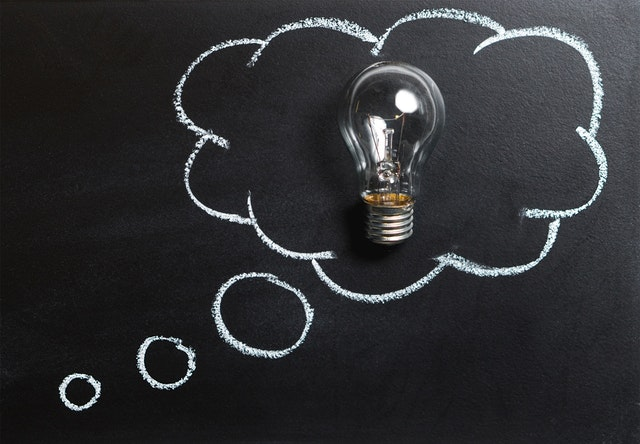
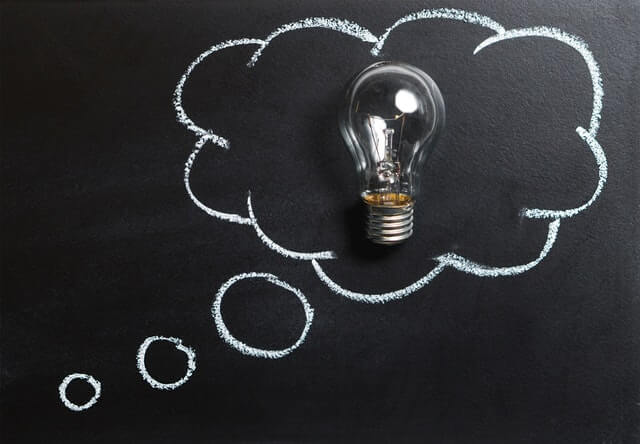
Use webp/compressed images; remove initial animation

diff --git a/pl.html b/pl.html
@@ -40,15 +40,6 @@
 </head>
 <body>
 
-<script>
-    document.body.className = 'is-loading';
-    window.addEventListener('load', function () {
-        setTimeout(function () {
-            document.body.className = '';
-        }, 100);
-    });
-</script>
-
 <!-- Header -->
 <header id="header">
     <nav>
@@ -62,7 +53,13 @@
 
     <section id="intro" class="wrapper featured style1">
         <div class="inner">
-            <span class="image"><img src="images/adam.jpg" alt="Adam Bar"/></span>
+            <span class="image">
+                <picture>
+                    <source srcset="images/adam.webp" type="image/webp">
+                    <source srcset="images/adam.jpg" type="image/jpeg">
+                    <img src="images/adam.jpg" alt="Adam Bar">
+                </picture>
+            </span>
             <div class="content">
                 <header>
                     <h1>Adam Bar</h1>
@@ -176,7 +173,11 @@
                 <h2>Szkolenia</h2>
                 <section class="spotlight">
                     <span class="image">
-                        <img src="images/codeeurope.jpg" alt="Ja na Code Europe, Wrocław 2017" loading="lazy">
+                        <picture>
+                            <source srcset="images/codeeurope.webp" type="image/webp">
+                            <source srcset="images/codeeurope.jpeg" type="image/jpeg">
+                            <img src="images/codeeurope.jpeg" alt="Ja na Code Europe, Wrocław 2017" loading="lazy">
+                        </picture>
                     </span>
                     <div class="content">
                         <p>Chcesz wziąć udział w szkoleniu na temat możliwości nowoczesnych stron mobilnych? Jako doświadczony trener, z przyjemnością poprowadzę je dla Ciebie i Twojego zespołu.
@@ -207,7 +208,11 @@
         <div class="inner">
             <section class="spotlight">
                 <span class="image">
-                    <img src="images/audits.jpeg" alt="Audyty Front-endu" loading="lazy"/>
+                    <picture>
+                        <source srcset="images/audits.webp" type="image/webp">
+                        <source srcset="images/audits.jpeg" type="image/jpeg">
+                        <img src="images/audits.jpeg" alt="Audyty Front-endu" loading="lazy">
+                    </picture>
                 </span>
                 <div class="content">
                     <header>
@@ -220,7 +225,11 @@
             </section>
             <section class="spotlight">
                 <span class="image">
-                    <img src="images/consulting.jpeg" alt="Consulting - Mobile Web" loading="lazy"/>
+                    <picture>
+                        <source srcset="images/consulting.webp" type="image/webp">
+                        <source srcset="images/consulting.jpeg" type="image/jpeg">
+                        <img src="images/consulting.jpeg" alt="Consulting - Mobile Web" loading="lazy">
+                    </picture>
                 </span>
                 <div class="content">
                     <header>

diff --git a/index.html b/index.html
@@ -40,15 +40,6 @@
 </head>
 <body>
 
-<script>
-    document.body.className = 'is-loading';
-    window.addEventListener('load', function () {
-        setTimeout(function () {
-            document.body.className = '';
-        }, 100);
-    });
-</script>
-
 <!-- Header -->
 <header id="header">
     <nav>
@@ -62,7 +53,13 @@
 
     <section id="intro" class="wrapper featured style1">
         <div class="inner">
-            <span class="image"><img src="images/adam.jpg" alt="Adam Bar"/></span>
+            <span class="image">
+                <picture>
+                    <source srcset="images/adam.webp" type="image/webp">
+                    <source srcset="images/adam.jpg" type="image/jpeg">
+                    <img src="images/adam.jpg" alt="Adam Bar">
+                </picture>
+            </span>
             <div class="content">
                 <header>
                     <h1>Adam Bar</h1>
@@ -170,7 +167,11 @@
                 <h2>Workshops</h2>
                 <section class="spotlight">
                     <span class="image">
-                        <img src="images/codeeurope.jpg" alt="Me at Code Europe, Wrocław 2017" loading="lazy">
+                        <picture>
+                            <source srcset="images/codeeurope.webp" type="image/webp">
+                            <source srcset="images/codeeurope.jpeg" type="image/jpeg">
+                            <img src="images/codeeurope.jpeg" alt="Me at Code Europe, Wrocław 2017" loading="lazy">
+                        </picture>
                     </span>
                     <div class="content">
                         <p>Interested in a workshop about modern Mobile Web capabilities? As an experienced trainer I'll be happy to run one for you and your team.
@@ -201,7 +202,11 @@
         <div class="inner">
             <section class="spotlight">
                 <span class="image">
-                    <img src="images/audits.jpeg" alt="Front-end Audits" loading="lazy"/>
+                    <picture>
+                        <source srcset="images/audits.webp" type="image/webp">
+                        <source srcset="images/audits.jpeg" type="image/jpeg">
+                        <img src="images/audits.jpeg" alt="Front-end Audits" loading="lazy">
+                    </picture>
                 </span>
                 <div class="content">
                     <header>
@@ -214,7 +219,11 @@
             </section>
             <section class="spotlight">
                 <span class="image">
-                    <img src="images/consulting.jpeg" alt="Mobile Web Consulting" loading="lazy"/>
+                    <picture>
+                        <source srcset="images/consulting.webp" type="image/webp">
+                        <source srcset="images/consulting.jpeg" type="image/jpeg">
+                        <img src="images/consulting.jpeg" alt="Mobile Web Consulting" loading="lazy">
+                    </picture>
                 </span>
                 <div class="content">
                     <header>

diff --git a/css/main.css b/css/main.css
@@ -840,28 +840,6 @@ section.special header h2:before, section.special header h3:before, section.spec
     transition-delay: 0.35s;
 }
 
-body.is-loading #intro .image {
-    opacity: 0;
-}
-
-body.is-loading #intro .content {
-    -moz-transform: translateX(0.5em);
-    -webkit-transform: translateX(0.5em);
-    -ms-transform: translateX(0.5em);
-    transform: translateX(0.5em);
-    transition: transform;
-    opacity: 0;
-}
-
-@media screen and (max-width: 980px) {
-    body.is-loading #intro .content {
-        -moz-transform: translateY(0.35em);
-        -webkit-transform: translateY(0.35em);
-        -ms-transform: translateY(0.35em);
-        transform: translateY(0.35em);
-    }
-}
-
 /* Icons */
 
 .icon {
